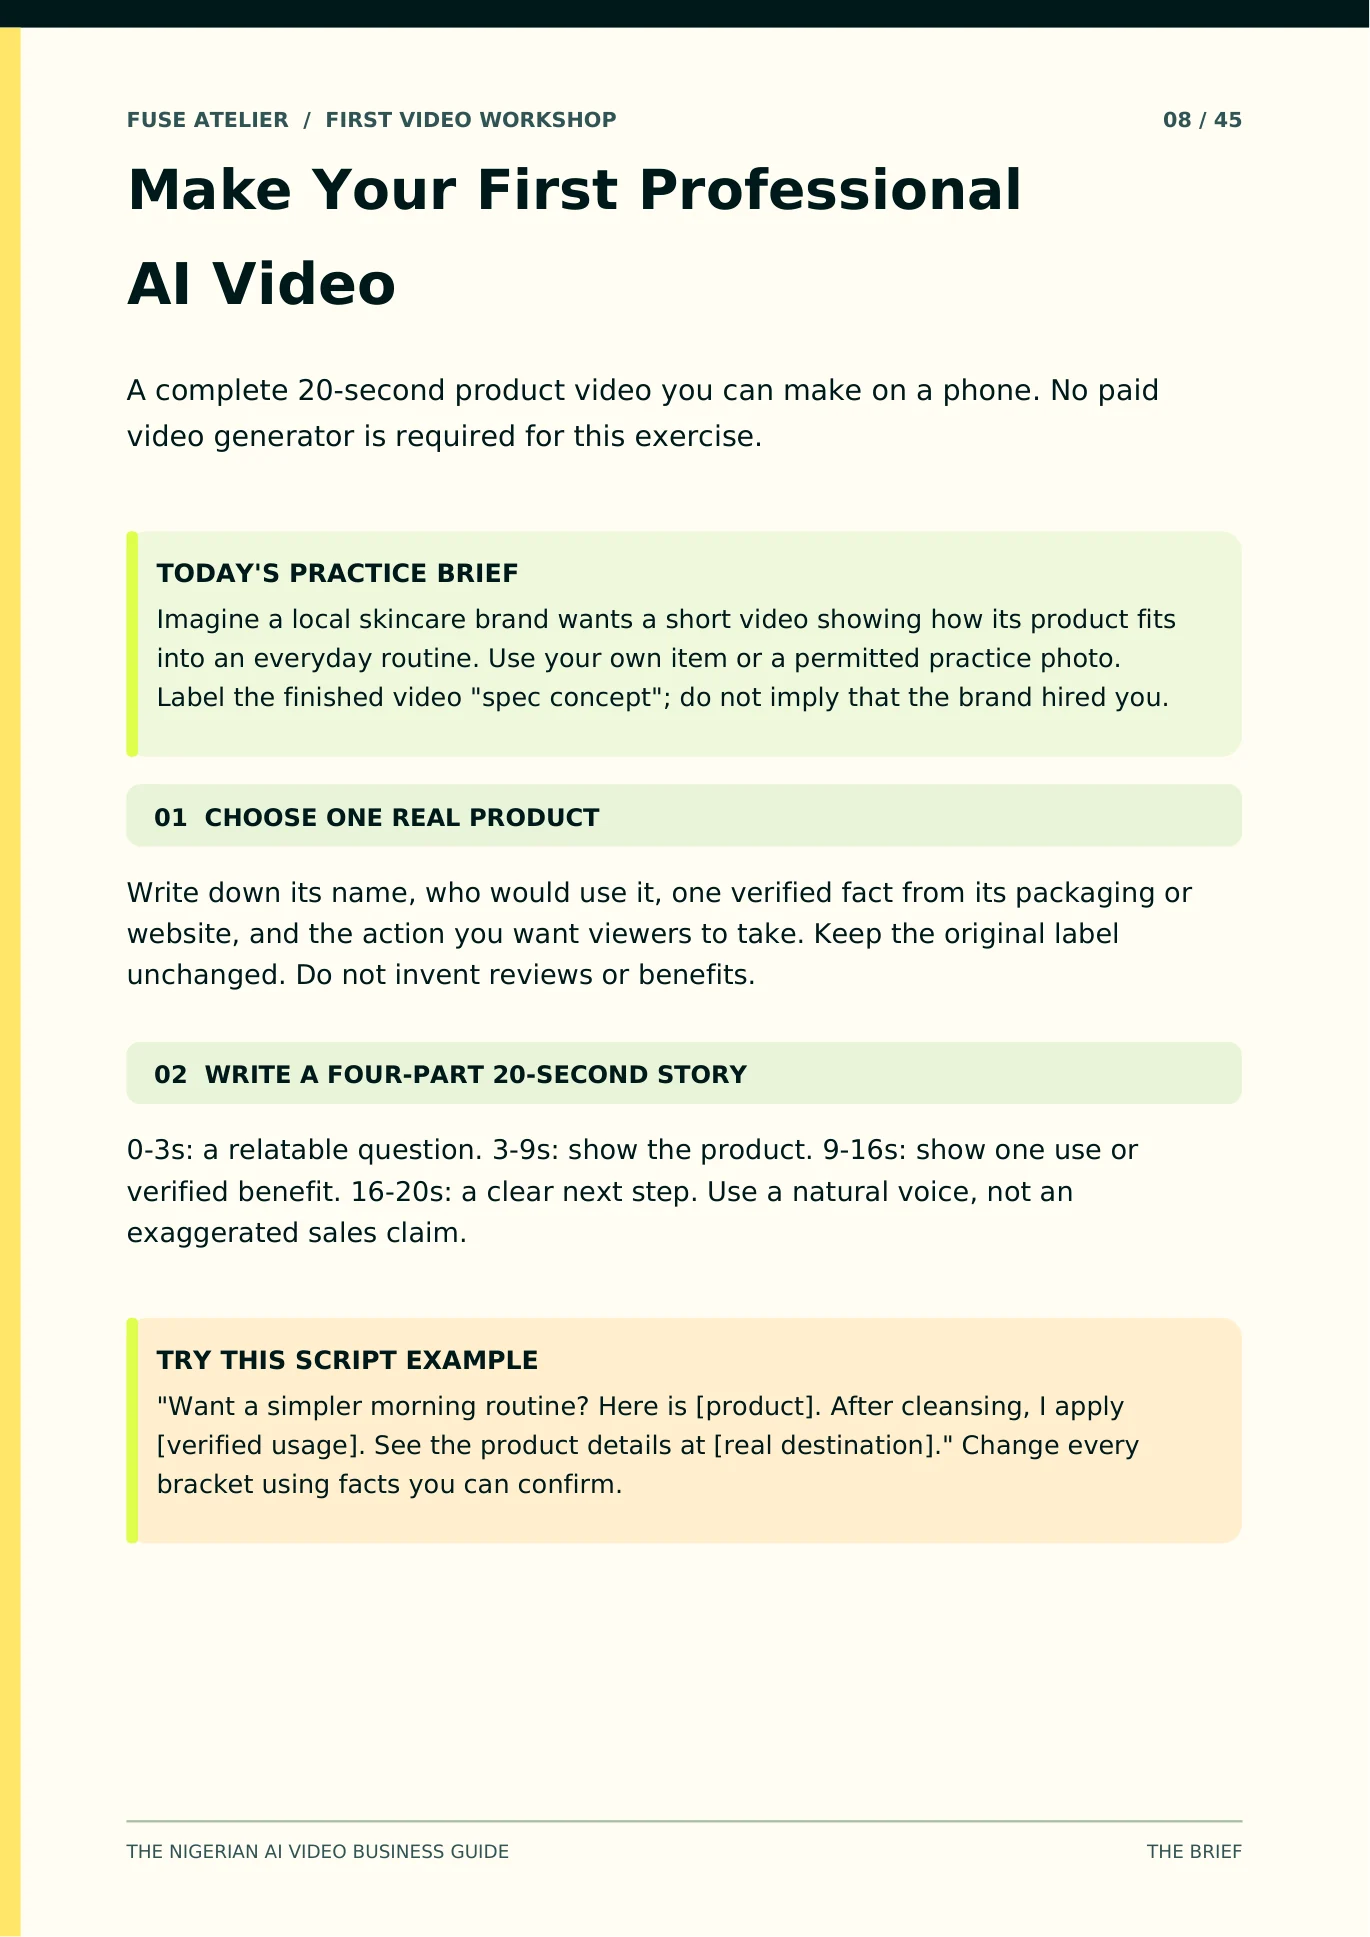
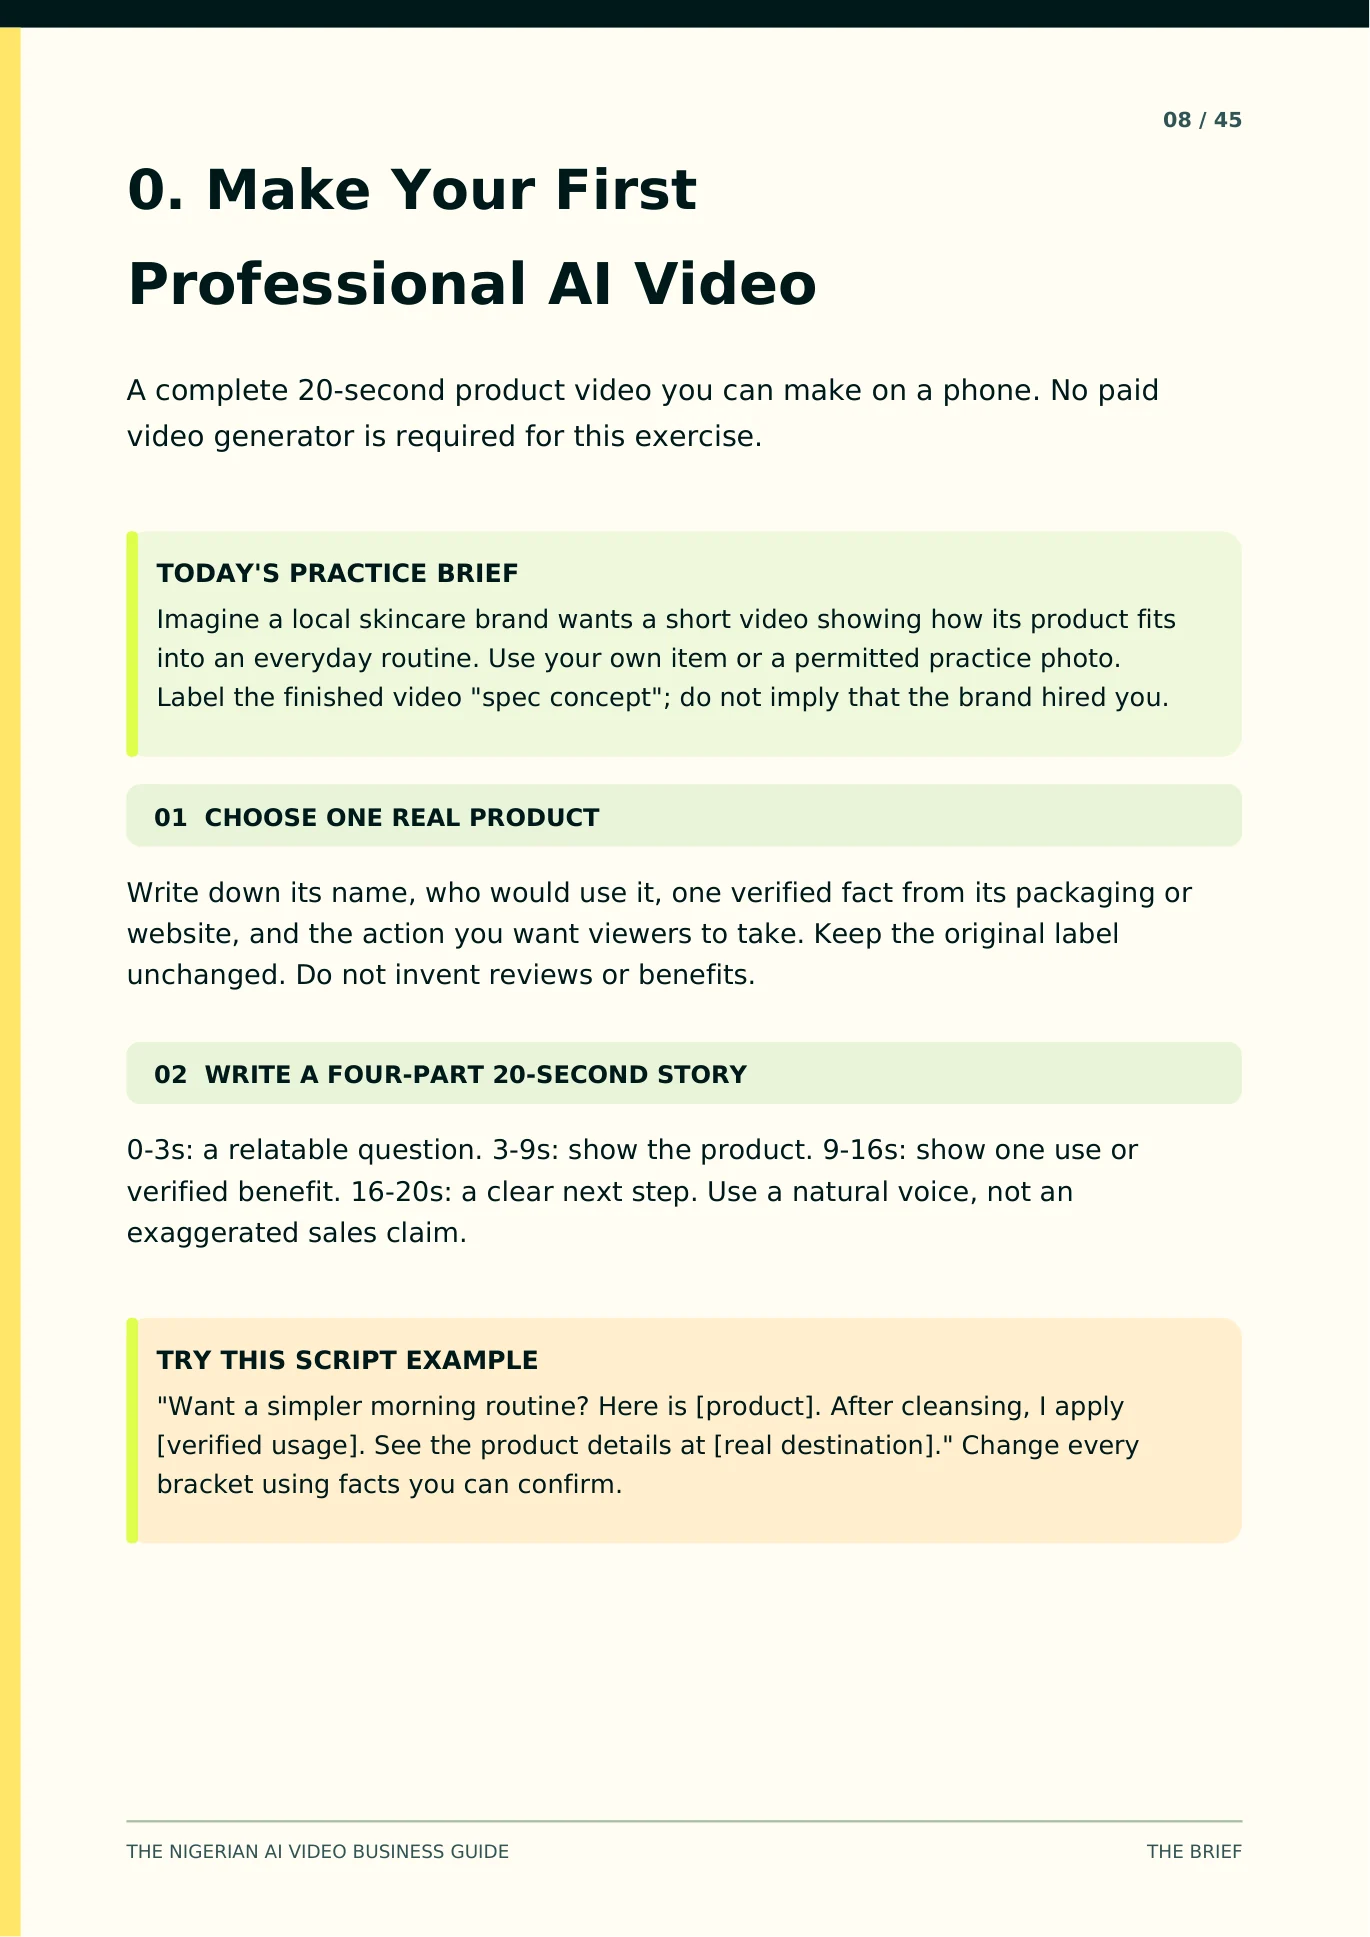
Fix ebook first lesson link and reader navigation cues

Changed region(s): [[0.092, 0.062, 0.7664, 0.1549]]

diff --git a/atelier-v2/ai-video-book.js b/atelier-v2/ai-video-book.js
@@ -17,6 +17,21 @@
   const pageCache=new Map();
   const pending=new Map();
   const action=$('bookAction');
+  const cue=$('actionCue'),peek=$('actionPeek'),hotspots=$('pageHotspots');
+  let peekTimer;
+  function revealNote(){action.scrollIntoView({behavior:'smooth',block:'center'});peek.hidden=true}
+  cue.onclick=revealNote;peek.onclick=revealNote;
+  function showPeek(){
+    clearTimeout(peekTimer);
+    if(action.hidden)return;
+    peek.hidden=false;
+    peekTimer=setTimeout(()=>{peek.hidden=true},6000);
+  }
+  function updateProgress(){
+    const max=document.documentElement.scrollHeight-innerHeight;
+    $('readerProgressFill').style.height=(max>0?Math.max(8,100*scrollY/max):100)+'%';
+  }
+  addEventListener('scroll',updateProgress,{passive:true});addEventListener('resize',updateProgress);
   function updateAction(n){
     if(n<=7){
       action.innerHTML='<strong>Keep learning with other AI creators</strong><p>Join Ria’s AI community for ideas and conversations as you work through the guide.</p><a href="https://chat.whatsapp.com/KKbt2aqTSP9D0YgcODf7Sy?s=cl&amp;p=a&amp;mlu=4&amp;ilr=4" target="_blank" rel="noopener noreferrer">Join the AI community ↗</a>';
@@ -25,6 +40,7 @@
       action.innerHTML='<strong>Enjoyed your first video exercise?</strong><p>Learn AI UGC and creator-style videos more deeply in the AI UGC &amp; Influencer course for ₦4,900.</p><a href="https://nestuge.com/academy_ugc_offer" target="_blank" rel="noopener noreferrer">Explore the AI UGC course ↗</a>';
       action.hidden=false;
     }else{action.hidden=true;action.replaceChildren()}
+    cue.hidden=action.hidden;peek.hidden=true;
   }
   async function getPage(n){
     if(pageCache.has(n))return pageCache.get(n);
@@ -51,6 +67,7 @@
     offsetX=clamp(offsetX,rect.width*(1-zoom),0);
     offsetY=clamp(offsetY,rect.height*(1-zoom),0);
     photo.style.transform=`translate(${offsetX}px,${offsetY}px) scale(${zoom})`;
+    hotspots.style.transform=photo.style.transform;
   }
   function resetZoom(){zoom=1;offsetX=0;offsetY=0;pinch=null;drag=null;pointers.clear();paintZoom()}
   function startPinch(){
@@ -94,11 +111,12 @@
     const rect=frame.getBoundingClientRect();zoom=2;
     offsetX=-(e.clientX-rect.left);offsetY=-(e.clientY-rect.top);paintZoom();
   });
-  async function show(n){
+  async function show(n,navigated=false){
     if(!Number.isInteger(n)||n<1||n>total)return;
     const request=++current;
     page=n;
     updateAction(n);
+    hotspots.hidden=n!==10;
     $('bookStatus').textContent='Opening page '+n+'…';
     $('bookStatus').hidden=pageCache.has(n);
     frame.classList.toggle('is-loading',!pageCache.has(n));
@@ -111,7 +129,7 @@
       const src=await getPage(n);
       if(request!==current)return;
       const img=$('bookPage');
-      img.onload=()=>{if(request===current){$('bookStatus').hidden=true;frame.classList.remove('is-loading');frame.setAttribute('aria-busy','false');img.hidden=false;$('pageLabel').textContent='Page '+n+' of '+total;warm(n+1);warm(n+2);warm(n-1)}};
+      img.onload=()=>{if(request===current){$('bookStatus').hidden=true;frame.classList.remove('is-loading');frame.setAttribute('aria-busy','false');img.hidden=false;$('pageLabel').textContent='Page '+n+' of '+total;warm(n+1);warm(n+2);warm(n-1);if(navigated)frame.scrollIntoView({behavior:'smooth',block:'start'});showPeek();requestAnimationFrame(updateProgress)}};
       img.onerror=()=>{if(request===current)$('bookStatus').textContent='The page did not load. Try another page and return.'};
       img.alt='Page '+n+' of Zero To First 10 Million With AI Video';
       if(img.src===src && img.complete && img.naturalWidth)img.onload();
@@ -122,16 +140,16 @@
       if(request===current){$('bookStatus').hidden=false;$('bookStatus').textContent=error.message||'This page could not load.';frame.classList.remove('is-loading');frame.setAttribute('aria-busy','false')}
     }
   }
-  $('prevPage').onclick=()=>show(page-1);
-  $('nextPage').onclick=()=>show(page+1);
-  $('pageNumber').onchange=()=>show(Number($('pageNumber').value));
-  document.addEventListener('keydown',e=>{if(e.target.tagName==='INPUT'||$('contentsDialog').open)return;if(e.key==='ArrowRight')show(page+1);if(e.key==='ArrowLeft')show(page-1)});
+  $('prevPage').onclick=()=>show(page-1,true);
+  $('nextPage').onclick=()=>show(page+1,true);
+  $('pageNumber').onchange=()=>show(Number($('pageNumber').value),true);
+  document.addEventListener('keydown',e=>{if(e.target.tagName==='INPUT'||$('contentsDialog').open)return;if(e.key==='ArrowRight')show(page+1,true);if(e.key==='ArrowLeft')show(page-1,true)});
   const dialog=$('contentsDialog');
   for(const [title,n] of chapters){
     const button=document.createElement('button');button.type='button';
     const name=document.createElement('strong');name.textContent=title;
     const count=document.createElement('span');count.textContent=String(n);
-    button.append(name,count);button.onclick=()=>{dialog.close();show(n)};
+    button.append(name,count);button.onclick=()=>{dialog.close();show(n,true)};
     $('chapterList').append(button);
   }
   $('bookContents').onclick=()=>dialog.showModal();

diff --git a/atelier-v2/ai-video-book.css b/atelier-v2/ai-video-book.css
@@ -6,3 +6,20 @@
 .book-controls{display:flex;align-items:center;justify-content:space-between;gap:10px;margin:14px 12px 0}.book-controls button{min-height:44px;padding:10px 15px}.book-controls button:disabled{opacity:.35;cursor:default;box-shadow:none}.book-controls label{display:flex;align-items:center;gap:6px;font-size:12px;white-space:nowrap}.book-controls input{width:49px;background:#062125;border:1px solid var(--line);border-radius:8px;color:#fff;text-align:center;font:600 14px Montserrat;height:38px}.reader-note{text-align:center;color:#b7c8c5;font-size:11px;line-height:1.5;padding:0 12px}.book-action{margin:18px 12px 0;padding:17px;border:1px solid #a7c86a;border-radius:14px;background:linear-gradient(145deg,#123236,#062125);box-shadow:0 12px 25px #0005}.book-action strong{display:block;color:var(--yellow);font-size:13px;line-height:1.45}.book-action p{margin:8px 0 14px;color:#d3e2dd;font-size:12px;line-height:1.55}.book-action a{display:inline-flex;padding:11px 15px;border-radius:999px;background:linear-gradient(105deg,#ffe66a,#dfff4e 55%,#eeffe0);color:#001012;text-decoration:none;font-weight:800;font-size:12px}.book-action[hidden]{display:none}
 .contents-dialog{width:min(440px,calc(100% - 32px));max-height:min(80vh,690px);background:#062125;color:#fff;border:1px solid var(--lime);border-radius:18px;padding:0 20px 20px;box-shadow:0 30px 90px #000c}.contents-dialog::backdrop{background:#000a}.contents-head{position:sticky;top:0;background:#062125;display:flex;align-items:center;justify-content:space-between;padding:19px 0 12px}.contents-head button{border:0;background:none;color:#fff;font-size:27px;cursor:pointer}.contents-dialog #chapterList{display:grid;gap:6px}.contents-dialog #chapterList button{display:flex;justify-content:space-between;gap:20px;width:100%;border:1px solid #315456;border-radius:9px;padding:11px;background:#00191b;color:#fff;text-align:left;font:500 12px Montserrat;cursor:pointer}.contents-dialog #chapterList button:hover{border-color:var(--lime)}.contents-dialog #chapterList span{color:var(--lime)}
 @media(max-width:520px){.book-top{height:48px;gap:9px;padding:0 7px}.book-heading strong{font-size:11px}.book-contents{font-size:11px;padding:8px}.book-controls button{font-size:11px;padding:8px}.book-controls label{font-size:10px}.book-controls input{width:39px}}
+
+/* The printed page is an image; its course button needs a real tap target. */
+.page-hotspots{position:absolute;inset:0;transform-origin:0 0;pointer-events:none;z-index:3}
+.page-hotspots[hidden]{display:none}
+#ugcPageLink{position:absolute;left:12.095%;top:75.782%;width:38.637%;height:2.851%;pointer-events:auto;border-radius:999px}
+#ugcPageLink:focus-visible{outline:4px solid #dfff4e;outline-offset:3px}
+.action-cue{display:block;margin:12px auto 0;padding:9px 14px;border:1px solid #dfff4e;border-radius:999px;background:#dfff4e;color:#001012;font:700 12px Montserrat,Arial,sans-serif;box-shadow:0 0 18px #dfff4e91;cursor:pointer}
+.action-cue[hidden],.action-peek[hidden]{display:none}
+.book-action{border:2px solid #dfff4e;box-shadow:0 0 0 1px #ffe66a66,0 0 25px #dfff4e5c,0 14px 30px #0008}
+.book-action strong{font-size:15px}.book-action p{font-size:13px}.book-action a{font-size:13px}
+.action-peek{position:fixed;right:18px;bottom:86px;z-index:60;padding:12px 16px;border:1px solid #001012;border-radius:999px;background:linear-gradient(105deg,#ffe66a,#dfff4e 55%,#eeffe0);color:#001012;font:800 12px Montserrat,Arial,sans-serif;box-shadow:0 0 24px #dfff4eae;cursor:pointer;animation:peekPulse 1.2s ease-in-out 3}
+@keyframes peekPulse{50%{transform:translateY(-7px);box-shadow:0 0 32px #dfff4e}}
+.reader-progress{position:fixed;right:3px;top:64px;bottom:83px;width:7px;z-index:70;border:1px solid #dfff4e88;border-radius:7px;background:#173d42;box-shadow:0 0 9px #dfff4e77;pointer-events:none;overflow:hidden}
+.reader-progress>div{width:100%;min-height:8%;background:linear-gradient(#ffe66a,#dfff4e,#eeffe0);border-radius:7px;box-shadow:0 0 12px #dfff4e}
+html{scrollbar-color:#dfff4e #062125;scrollbar-width:auto}
+::-webkit-scrollbar{width:10px}::-webkit-scrollbar-track{background:#062125}::-webkit-scrollbar-thumb{background:#dfff4e;border-radius:9px}
+@media(prefers-reduced-motion:reduce){.action-peek{animation:none}}

diff --git a/atelier-v2/ai-video-book.html b/atelier-v2/ai-video-book.html
@@ -8,10 +8,10 @@
   <link rel="preconnect" href="https://fonts.googleapis.com">
   <link rel="preconnect" href="https://fonts.gstatic.com" crossorigin>
   <link href="https://fonts.googleapis.com/css2?family=Montserrat:wght@400;500;600;700&display=swap" rel="stylesheet">
-  <link rel="stylesheet" href="ai-video-book.css?v=4">
+  <link rel="stylesheet" href="ai-video-book.css?v=5">
   <script src="https://cdn.jsdelivr.net/npm/@supabase/supabase-js@2.45.4/dist/umd/supabase.js" defer></script>
   <script src="fuse-shell.js?v=footer-unified-6" defer></script>
-  <script src="ai-video-book.js?v=5" defer></script>
+  <script src="ai-video-book.js?v=6" defer></script>
 </head>
 <body data-page="academy">
   <header class="book-top">
@@ -24,15 +24,19 @@
     <div class="page-frame" id="pageFrame" aria-live="polite">
       <p id="bookStatus" role="status">Checking your access…</p>
       <img id="bookPage" alt="" hidden>
+      <div id="pageHotspots" class="page-hotspots" hidden><a id="ugcPageLink" href="https://nestuge.com/academy_ugc_offer" target="_blank" rel="noopener noreferrer" aria-label="View the AI UGC course"></a></div>
     </div>
     <div class="book-controls">
       <button id="prevPage" type="button">← Previous</button>
       <label for="pageNumber"><span>Page</span><input id="pageNumber" type="number" min="1" max="45" value="1" inputmode="numeric" aria-label="Go to page"><span>of 45</span></label>
       <button id="nextPage" type="button">Next →</button>
     </div>
+    <button id="actionCue" class="action-cue" type="button" hidden>↓ See the action note for this page</button>
     <aside id="bookAction" class="book-action" hidden aria-live="polite"></aside>
     <p class="reader-note">Use two fingers to zoom, then drag to read. Double-tap to zoom or reset. Your last page is saved on this device.</p>
   </main>
+  <button id="actionPeek" class="action-peek" type="button" hidden>↓ Action note</button>
+  <div class="reader-progress" aria-hidden="true"><div id="readerProgressFill"></div></div>
   <dialog id="contentsDialog" class="contents-dialog" aria-label="Book contents">
     <div class="contents-head"><strong>Jump to a chapter</strong><button id="closeContents" type="button" aria-label="Close contents">×</button></div>
     <div id="chapterList"></div>

diff --git a/scripts/build-ai-video-first-lesson.py b/scripts/build-ai-video-first-lesson.py
@@ -40,7 +40,6 @@ def base(c, page, label):
     c.setFillColor(HexColor(TEAL)); c.rect(0,H-12,W,12,fill=1,stroke=0)
     c.setFillColor(HexColor(LIME if page%2 else YELLOW)); c.rect(0,0,9,H-12,fill=1,stroke=0)
     c.setFillColor(HexColor(MUTED)); c.setFont('FuseBold',9)
-    c.drawString(55,H-55,'FUSE ATELIER  /  FIRST VIDEO WORKSHOP')
     c.drawRightString(W-55,H-55,f'{page:02} / 45')
     c.setStrokeColor(HexColor('#A7C0A4')); c.line(55,50,W-55,50)
     c.setFont('Fuse',8); c.drawString(55,34,'THE NIGERIAN AI VIDEO BUSINESS GUIDE')
@@ -69,8 +68,8 @@ c=canvas.Canvas(str(OUT),pagesize=(W,H),pageCompression=1)
 
 base(c,8,'THE BRIEF')
 y=H-91
-y=heading(c,'Make Your First Professional',y)
-y=heading(c,'AI Video',y,25)
+y=heading(c,'0. Make Your First',y)
+y=heading(c,'Professional AI Video',y,25)
 y=paragraph(c,'A complete 20-second product video you can make on a phone. No paid video generator is required for this exercise.',y,size=12.4,leading=20)-17
 y=callout(c,'TODAY\'S PRACTICE BRIEF','Imagine a local skincare brand wants a short video showing how its product fits into an everyday routine. Use your own item or a permitted practice photo. Label the finished video "spec concept"; do not imply that the brand hired you.',y)
 y=section(c,'01','Choose one real product','Write down its name, who would use it, one verified fact from its packaging or website, and the action you want viewers to take. Keep the original label unchanged. Do not invent reviews or benefits.',y)
